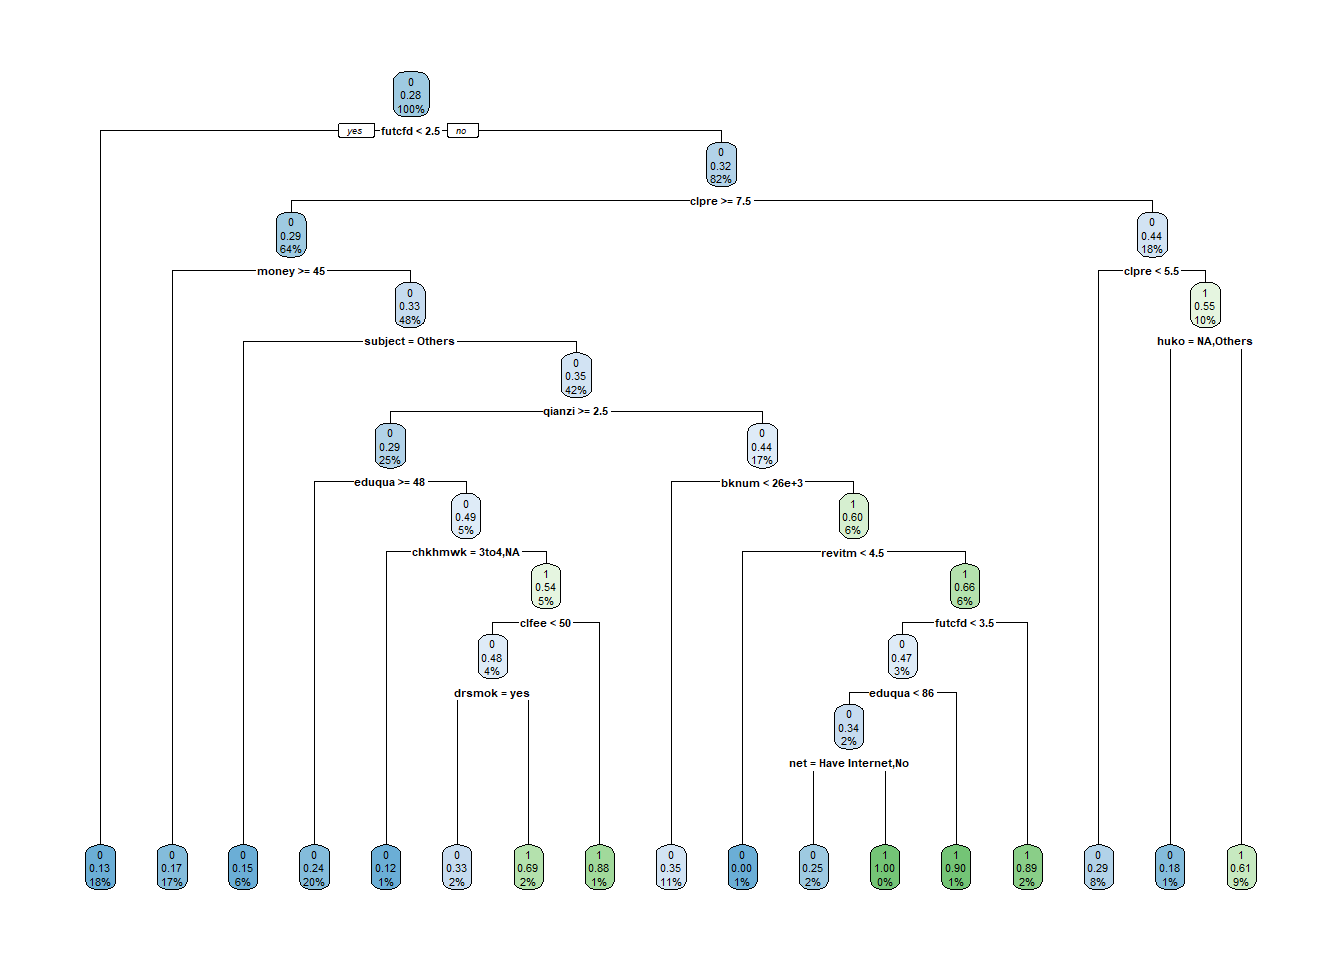
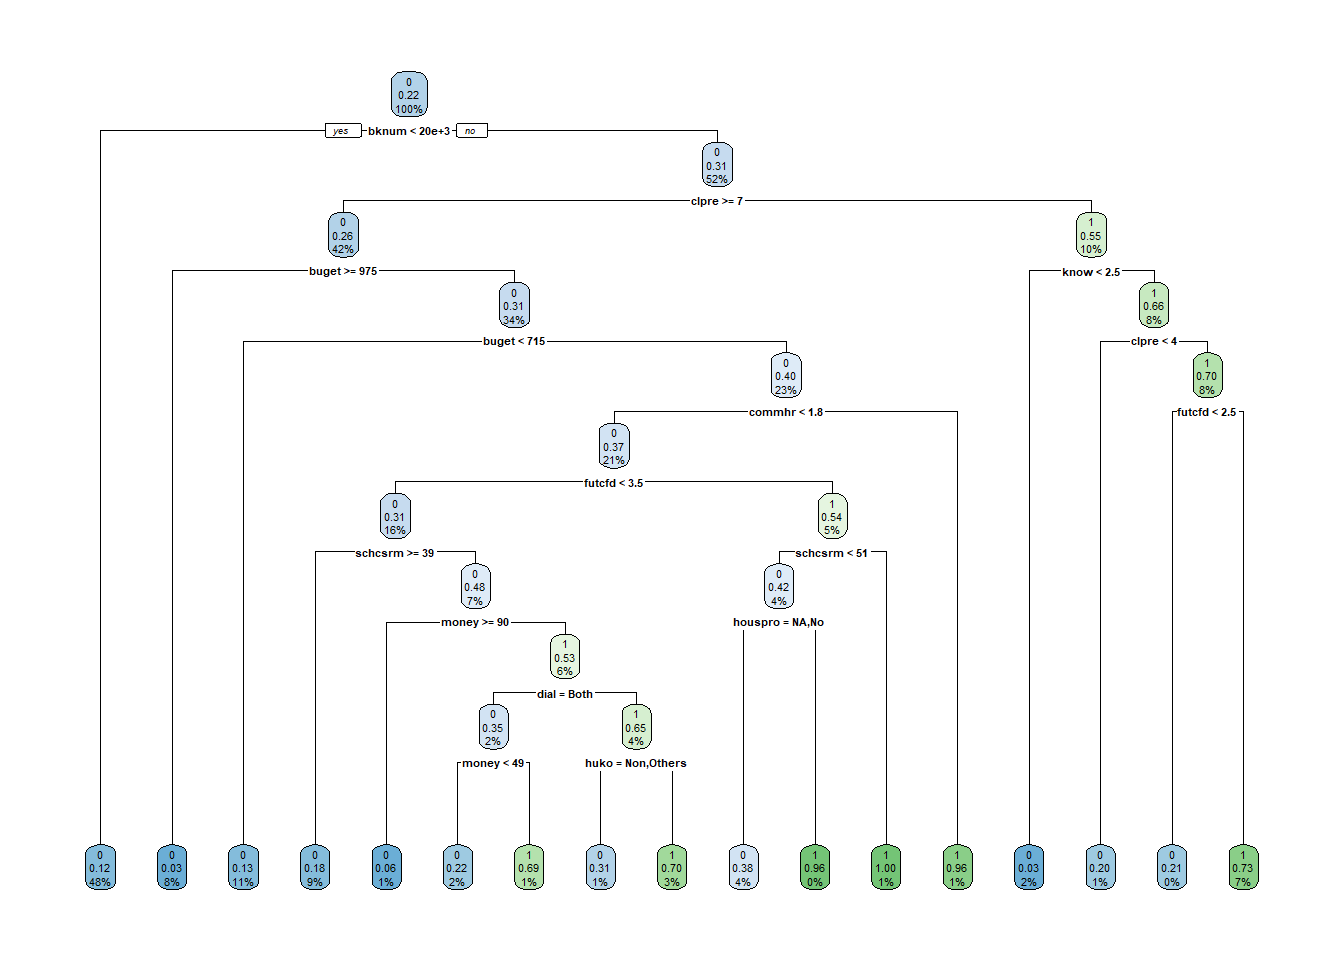
update

diff --git a/public/2019/05/08/edutree/index.html b/public/2019/05/08/edutree/index.html
@@ -99,7 +99,7 @@
 &gt; require(stats)
 &gt; attach(ceps)
 &gt; histogram(sdtotal,equal.widths = TRUE, nint = 70)</code></pre>
-<p><img src="../../../../edutree_files/figure-html/a%20-1.png" width="672" /></p>
+<p><img src="../../../../post/edutree_files/figure-html/a%20-1.png" width="672" /></p>
 <pre class="r"><code>&gt; cont &lt;- rpart.control(minsplit=5,maxcompete=100,xval=10,maxdepth=30,cp=0.01)
 &gt; cltree &lt;- rpart(matgreat ~ schids + sex + onechi +  maedu +  faedu + drunk + 
 + qurel + relation +  desk + net + dialect + chkhmwk + chkcouse + 
@@ -132,12 +132,12 @@ n=2084 (7124 observations deleted due to missingness)
 
         CP nsplit rel error  xerror       xstd
 1 0.066723      0   1.00000 1.00000 0.00086324
-2 0.037713      2   0.86655 0.88433 0.00082534
-3 0.021089      3   0.82884 0.86115 0.00081711
-4 0.010575      5   0.78666 0.85031 0.00081318
-5 0.010000      7   0.76551 0.86679 0.00081913</code></pre>
+2 0.037713      2   0.86655 0.89578 0.00082932
+3 0.021089      3   0.82884 0.87189 0.00082095
+4 0.010575      5   0.78666 0.83749 0.00080847
+5 0.010000      7   0.76551 0.85002 0.00081307</code></pre>
 <pre class="r"><code>&gt; rpart.plot(cltree)</code></pre>
-<p><img src="../../../../edutree_files/figure-html/b%20-1.png" width="672" /></p>
+<p><img src="../../../../post/edutree_files/figure-html/b%20-1.png" width="672" /></p>
 <pre class="r"><code>&gt; set.seed(1232)
 &gt; sampled &lt;- sample(1:nrow(ceps),nrow(ceps)*0.3,replace=FALSE)
 &gt; test &lt;- ceps[sampled,]
@@ -183,7 +183,7 @@ n=1478 (4969 observations deleted due to missingness)
 7 0.010089     15   0.67425 0.79658 0.00096374
 8 0.010000     16   0.66416 0.81500 0.00097244</code></pre>
 <pre class="r"><code>&gt; rpart.plot(cltree3)</code></pre>
-<p><img src="../../../../edutree_files/figure-html/c%20-1.png" width="672" /></p>
+<p><img src="../../../../post/edutree_files/figure-html/c%20-1.png" width="672" /></p>
 <pre class="r"><code>&gt; test &lt;- na.omit(test)
 &gt; y.pr &lt;- predict(cltree3,test,type=&quot;prob&quot;)
 &gt; 
